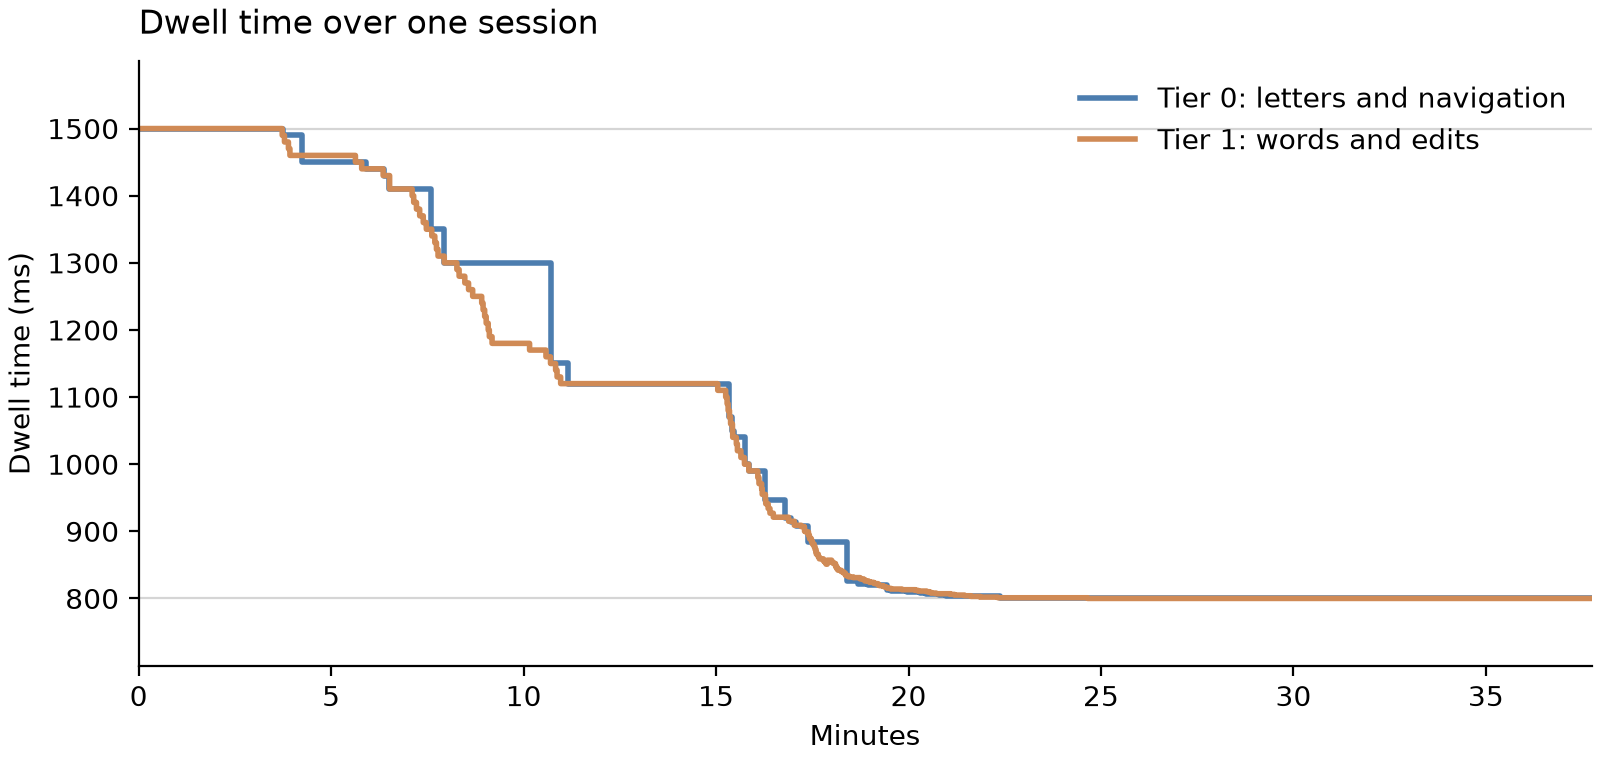
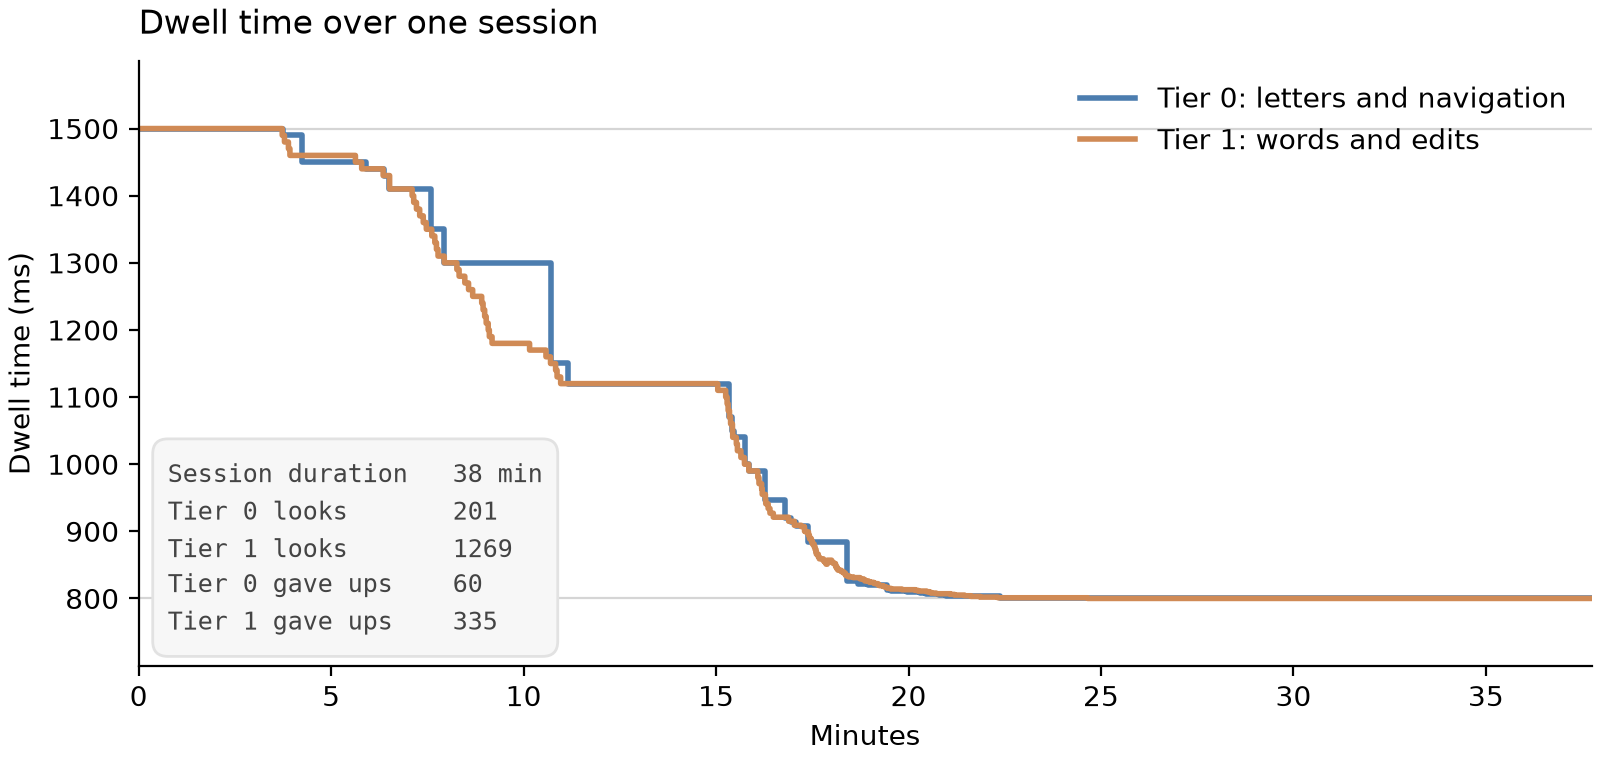
Show session length, looks and give-ups per tier on the dwell plot

diff --git a/tests/plot_dwell.py b/tests/plot_dwell.py
@@ -3,7 +3,8 @@
     python tests/plot_dwell.py                                        # the session with the most looks
     python tests/plot_dwell.py --person sinngam01 --session 20261109-203807
 
-Saves result/dwell_over_time.png: the dwell in use at each look, for tier 0 and tier 1.
+Saves result/dwell_over_time.png: the dwell in use at each look, for tier 0 and tier 1,
+with the session length, looks and give-ups per tier in a corner box.
 Undo and redo are left out, since the undo strip keeps a fixed dwell.
 """
 
@@ -25,27 +26,41 @@ FIXED = ("undo", "redo")
 TIERS = {0: ("Tier 0: letters and navigation", "#4C7DAF"), 1: ("Tier 1: words and edits", "#D08A55")}
 
 
-def load_looks(person: str | None, session: str | None):
-    """Looks of one adaptive session. Without a choice, the session with the most looks."""
+def load_session(person: str | None, session: str | None):
+    """Looks and give-ups of one adaptive session. Without a choice, the session with the most looks."""
     files = [ROOT / "data" / person / "events.jsonl"] if person else sorted((ROOT / "data").glob("*/events.jsonl"))
-    sessions: dict[tuple[str, str], list] = defaultdict(list)
+    looks: dict[tuple[str, str], list] = defaultdict(list)
+    gave_ups: dict[tuple[str, str], list] = defaultdict(list)
     for f in files:
         for line in f.open():
             r = json.loads(line)
-            if r.get("event") == "look" and r.get("condition") == "adaptive" and r["action"] not in FIXED:
-                sessions[(f.parent.name, r["session"])].append(r)
+            if r.get("condition") != "adaptive":
+                continue
+            key = (f.parent.name, r["session"])
+            if r["event"] == "look" and r["action"] not in FIXED:
+                looks[key].append(r)
+            elif r["event"] == "outcome" and r["outcome"]["learner"] == "dwell" and r["outcome"]["kind"] == "gave_up":
+                gave_ups[key].append(r["outcome"])
     if session:
-        sessions = {k: v for k, v in sessions.items() if k[1] == session}
-    if not sessions:
+        looks = {k: v for k, v in looks.items() if k[1] == session}
+    if not looks:
         raise SystemExit("No logged session found with looks in it.")
-    key = max(sessions, key=lambda k: len(sessions[k]))
-    return key, sessions[key]
+    key = max(looks, key=lambda k: len(looks[k]))
+    return key, looks[key], gave_ups[key]
 
 
 def plot(person: str | None, session: str | None) -> None:
-    (who, sid), looks = load_looks(person, session)
+    (who, sid), looks, gave_ups = load_session(person, session)
     d = load_config()["dwell"]
     end = max(r["t"] for r in looks) / 60
+    count = lambda rows, tier: sum(1 for r in rows if r["tier"] == tier)
+    info = "\n".join([
+        f"Session duration   {end:.0f} min",
+        f"Tier 0 looks       {count(looks, 0)}",
+        f"Tier 1 looks       {count(looks, 1)}",
+        f"Tier 0 gave ups    {count(gave_ups, 0)}",
+        f"Tier 1 gave ups    {count(gave_ups, 1)}",
+    ])
 
     fig, ax = plt.subplots(figsize=(8, 3.8), constrained_layout=True)
     for y in (d["start"], d["min"]):
@@ -63,6 +78,9 @@ def plot(person: str | None, session: str | None) -> None:
     ax.set_title("Dwell time over one session", loc="left", fontsize=12, pad=10)
     ax.spines[["top", "right"]].set_visible(False)
     ax.legend(frameon=False, loc="upper right")
+    ax.text(0.02, 0.04, info, transform=ax.transAxes, ha="left", va="bottom", fontsize=9,
+            family="monospace", color="#444444", linespacing=1.5,
+            bbox={"boxstyle": "round,pad=0.6", "facecolor": "#F7F7F7", "edgecolor": "#E2E2E2"})
 
     OUT.mkdir(exist_ok=True)
     path = OUT / "dwell_over_time.png"
